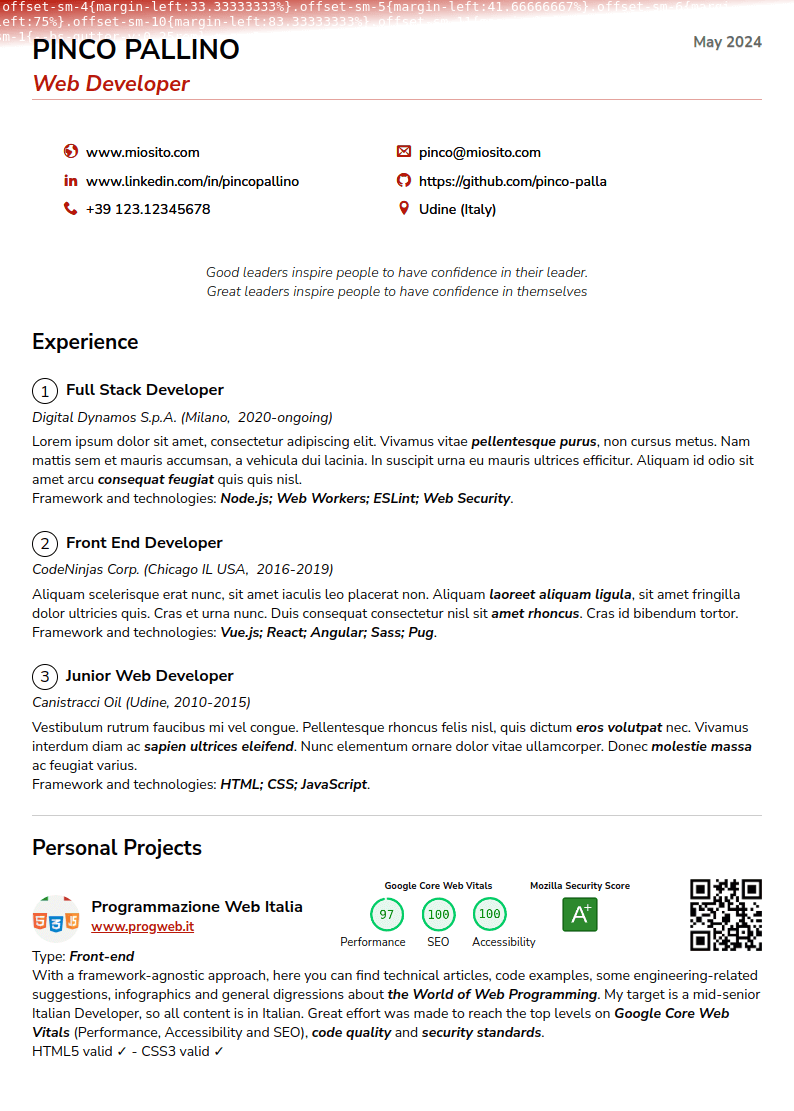
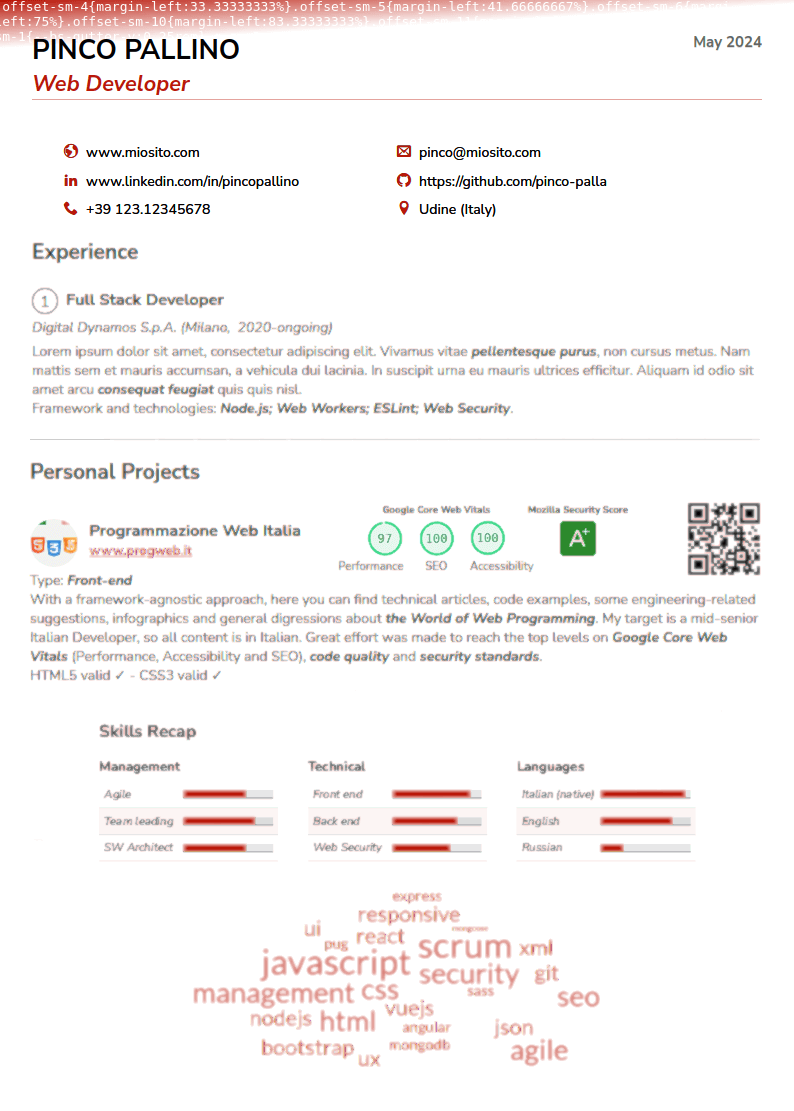
beta

Changed region(s): [[0.0302, 0.2142, 0.9673, 0.9793]]

diff --git a/style.css b/style.css
@@ -18,8 +18,8 @@
   --large: 1.8rem;
   --x-large: 2.5rem;
 
-  --font-size-bigger: 3.8rem;
-  --font-size-big: 1.6rem;
+  --font-size-bigger: 2.4rem;
+  --font-size-big: 1.4rem;
   --font-size-normal: 1rem;
   --font-size-small: .75rem;
 
@@ -37,27 +37,21 @@ html {
 }
 
 body {
+  width: 1200px;
+  height: 630px;
   padding: 0;
   margin: 0;
   color: var(--black);
   width: 100%;
   background-image: url('/imgs/bgs/CV-page-1.png');
   background-repeat: no-repeat;
-  background-position: 543% 50%;
+  background-position: 100% 50%;
   background-size: contain;
   position: relative;
 }
-body.fb {
-  width: 1080px;
-  height: 1350px;
-}
-body.in {
-  width: 1080px;
-  height: 1080px;
-}
 
 main {
-  width: 60%;
+  width: 62.5%;
   height: 100%;
   position: relative;
 }
@@ -80,8 +74,8 @@ h1 {
   margin: 0;
   color: var(--white);
   position: relative;
-  padding: 0 calc(var(--x-large)* 2);
-  padding-top: calc( var(--x-large) * 3 );
+  padding: 0 calc(var(--x-large)* 1);
+  padding-top: calc( var(--x-large) * 1 );
   font-weight: bold;
   letter-spacing: 5px;
 }
@@ -94,8 +88,8 @@ h1 em {
 p {
   position: relative;
   color: var(--white);
-  padding: 0 calc(var(--x-large)* 2);
-  padding-top: calc( var(--x-large) * 2 );
+  padding: 0 calc(var(--x-large)* 1);
+  padding-top: calc( var(--x-large) * 1 );
   font-size: var(--font-size-big);
   text-transform: uppercase;
   letter-spacing: 5px;
@@ -103,6 +97,7 @@ p {
 }
 p em {
   color: var(--first-color);
+  font-style: normal;
 }
 
 
@@ -128,8 +123,8 @@ a {
   height: var(--large);
   background-color: var(--white);
   position: relative;
-  margin-left: calc(var(--x-large)* 2);
-  margin-top: calc(var(--x-large)* 3);
+  margin-left: calc(var(--x-large)* 1);
+  margin-top: calc(var(--x-large)* 1);
   border-radius: var(--border-radius-small);
 }
 .dot:nth-child(2) {

diff --git a/index.html b/index.html
@@ -4,16 +4,15 @@
   <meta charset="UTF-8">
   <meta name="viewport" content="width=device-width, initial-scale=1.0">
   <base href="./">
-  <title>FB POST IMAGE</title>
+  <title>OG:IMAGE</title>
   <link rel="stylesheet" href="style.css">
 
   <link rel="preconnect" href="https://fonts.googleapis.com">
   <link rel="preconnect" href="https://fonts.gstatic.com" crossorigin>
   <link href="https://fonts.googleapis.com/css2?family=Nunito:ital,wght@0,200..1000;1,200..1000&display=swap" rel="stylesheet">
 
-  <script defer type="module" src="script.js"></script>
 </head>
-<body class="fb">
+<body>
   <main>
     <span class="dot"></span><span class="dot"></span><span class="dot"></span>
     <h1>Un <em>Curriculum Vitae</em> efficace per <em>Software Developer</em></h1>
